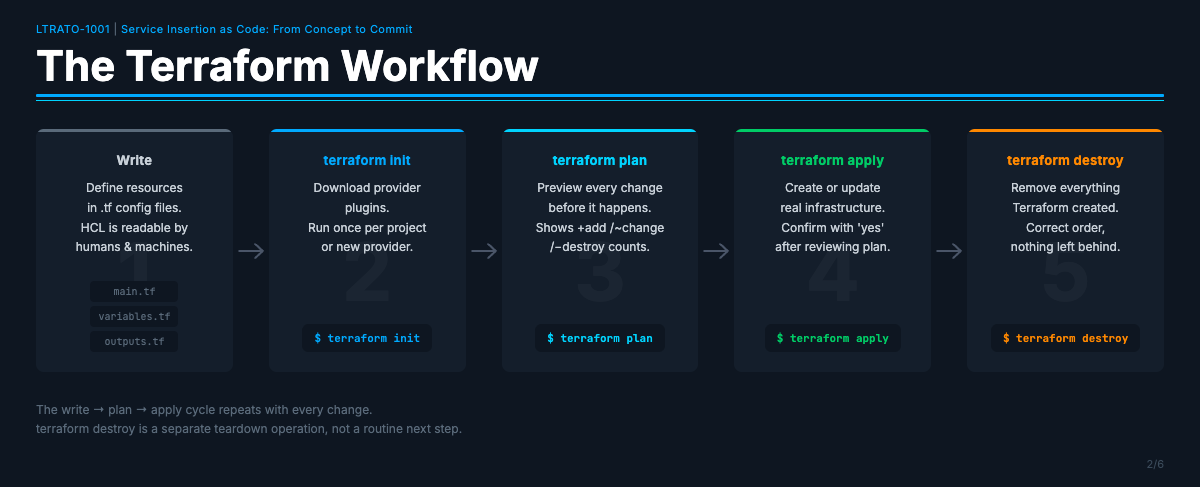
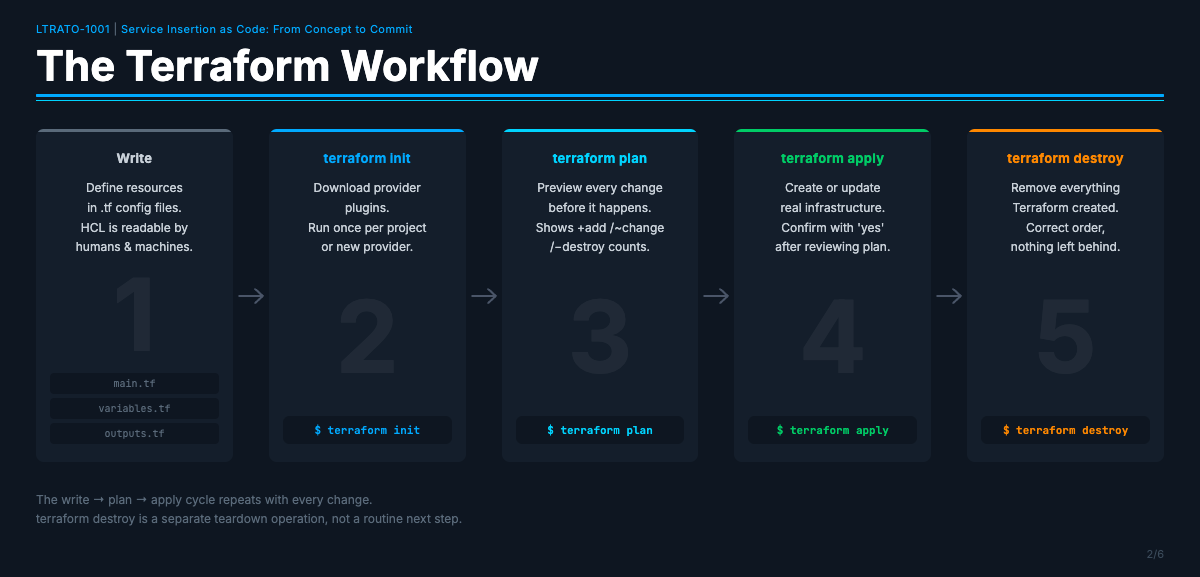
Fix slide-02 workflow: separate text/number zones to match original layout

diff --git a/slides/slide-02-workflow.html b/slides/slide-02-workflow.html
@@ -44,36 +44,44 @@
     display: flex;
     flex-direction: column;
     overflow: hidden;
-    position: relative;
   }
 
   .step-accent { height: 3px; }
-  .step-body { padding: 20px 18px 20px; display: flex; flex-direction: column; align-items: center; text-align: center; gap: 10px; flex: 1; }
+  .step-body {
+    padding: 18px 14px 18px;
+    display: flex;
+    flex-direction: column;
+    align-items: center;
+    text-align: center;
+    flex: 1;
+  }
 
   .step-name {
     font-size: 13px;
     font-weight: 700;
     letter-spacing: 0.02em;
-  }
-
-  .step-num {
-    font-size: 80px;
-    font-weight: 700;
-    color: #ffffff08;
-    line-height: 1;
-    position: absolute;
-    bottom: 60px;
-    left: 50%;
-    transform: translateX(-50%);
-    user-select: none;
-    pointer-events: none;
+    margin-bottom: 12px;
   }
 
   .step-desc {
     font-size: 12px;
     color: #c8d0d8;
     line-height: 1.65;
-    z-index: 1;
+  }
+
+  .step-num {
+    font-size: 100px;
+    font-weight: 700;
+    color: #ffffff0d;
+    line-height: 1;
+    user-select: none;
+    pointer-events: none;
+    flex: 1;
+    display: flex;
+    align-items: center;
+    justify-content: center;
+    width: 100%;
+    margin: 8px 0;
   }
 
   .step-cmd {
@@ -83,8 +91,8 @@
     font-family: 'JetBrains Mono', monospace;
     font-size: 11px;
     font-weight: 600;
-    margin-top: auto;
-    z-index: 1;
+    width: 100%;
+    text-align: center;
   }
 
   .arrow-col {
@@ -117,12 +125,12 @@
       <div class="step-accent" style="background:#5a6a7a;"></div>
       <div class="step-body">
         <div class="step-name" style="color:#c8d0d8;">Write</div>
-        <div class="step-num">1</div>
         <div class="step-desc">Define resources<br>in .tf config files.<br>HCL is readable by<br>humans &amp; machines.</div>
-        <div style="margin-top:14px; z-index:1;">
-          <div style="font-family:'JetBrains Mono',monospace; font-size:10px; color:#5a6a7a; background:#0e1621; border-radius:4px; padding:4px 8px; margin-bottom:4px;">main.tf</div>
-          <div style="font-family:'JetBrains Mono',monospace; font-size:10px; color:#5a6a7a; background:#0e1621; border-radius:4px; padding:4px 8px; margin-bottom:4px;">variables.tf</div>
-          <div style="font-family:'JetBrains Mono',monospace; font-size:10px; color:#5a6a7a; background:#0e1621; border-radius:4px; padding:4px 8px;">outputs.tf</div>
+        <div class="step-num">1</div>
+        <div style="width:100%; display:flex; flex-direction:column; gap:4px;">
+          <div style="font-family:'JetBrains Mono',monospace; font-size:10px; color:#5a6a7a; background:#0e1621; border-radius:4px; padding:4px 8px; text-align:center;">main.tf</div>
+          <div style="font-family:'JetBrains Mono',monospace; font-size:10px; color:#5a6a7a; background:#0e1621; border-radius:4px; padding:4px 8px; text-align:center;">variables.tf</div>
+          <div style="font-family:'JetBrains Mono',monospace; font-size:10px; color:#5a6a7a; background:#0e1621; border-radius:4px; padding:4px 8px; text-align:center;">outputs.tf</div>
         </div>
       </div>
     </div>
@@ -138,8 +146,8 @@
       <div class="step-accent" style="background:#00aaff;"></div>
       <div class="step-body">
         <div class="step-name" style="color:#00aaff;">terraform init</div>
-        <div class="step-num">2</div>
         <div class="step-desc">Download provider<br>plugins.<br>Run once per project<br>or new provider.</div>
+        <div class="step-num">2</div>
         <div class="step-cmd" style="color:#00aaff;">$ terraform init</div>
       </div>
     </div>
@@ -155,8 +163,8 @@
       <div class="step-accent" style="background:#00d4ff;"></div>
       <div class="step-body">
         <div class="step-name" style="color:#00d4ff;">terraform plan</div>
-        <div class="step-num">3</div>
         <div class="step-desc">Preview every change<br>before it happens.<br>Shows +add /~change<br>/−destroy counts.</div>
+        <div class="step-num">3</div>
         <div class="step-cmd" style="color:#00d4ff;">$ terraform plan</div>
       </div>
     </div>
@@ -172,8 +180,8 @@
       <div class="step-accent" style="background:#00cc66;"></div>
       <div class="step-body">
         <div class="step-name" style="color:#00cc66;">terraform apply</div>
-        <div class="step-num">4</div>
         <div class="step-desc">Create or update<br>real infrastructure.<br>Confirm with 'yes'<br>after reviewing plan.</div>
+        <div class="step-num">4</div>
         <div class="step-cmd" style="color:#00cc66;">$ terraform apply</div>
       </div>
     </div>
@@ -189,8 +197,8 @@
       <div class="step-accent" style="background:#ff8800;"></div>
       <div class="step-body">
         <div class="step-name" style="color:#ff8800;">terraform destroy</div>
-        <div class="step-num">5</div>
         <div class="step-desc">Remove everything<br>Terraform created.<br>Correct order,<br>nothing left behind.</div>
+        <div class="step-num">5</div>
         <div class="step-cmd" style="color:#ff8800;">$ terraform destroy</div>
       </div>
     </div>
